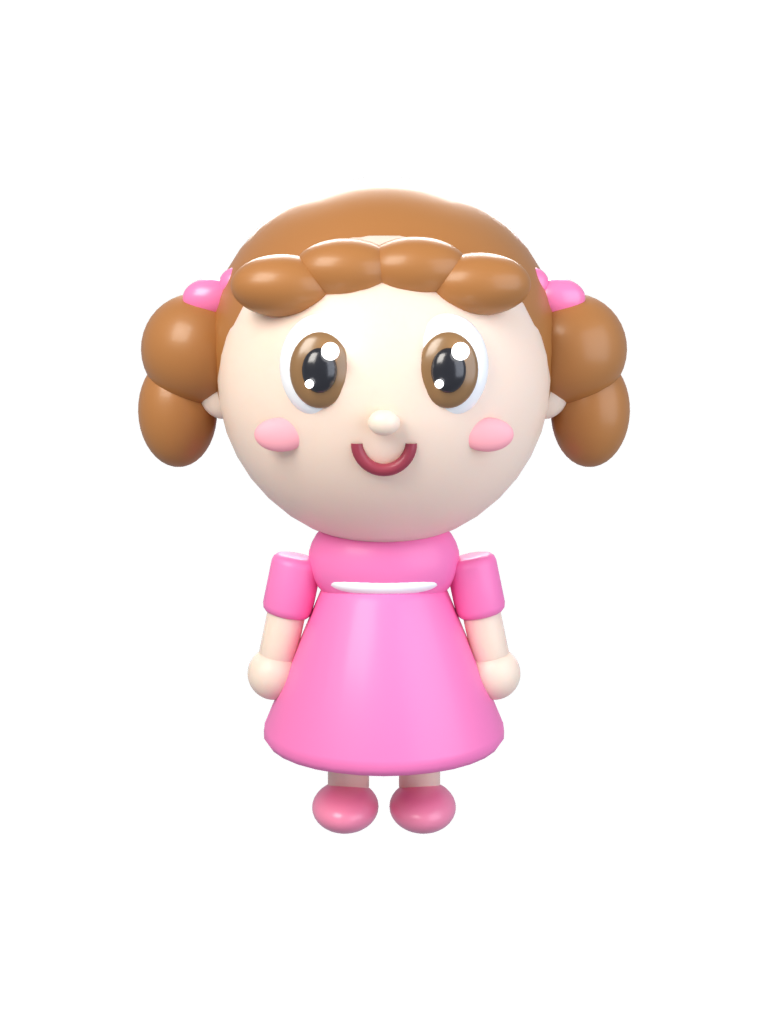
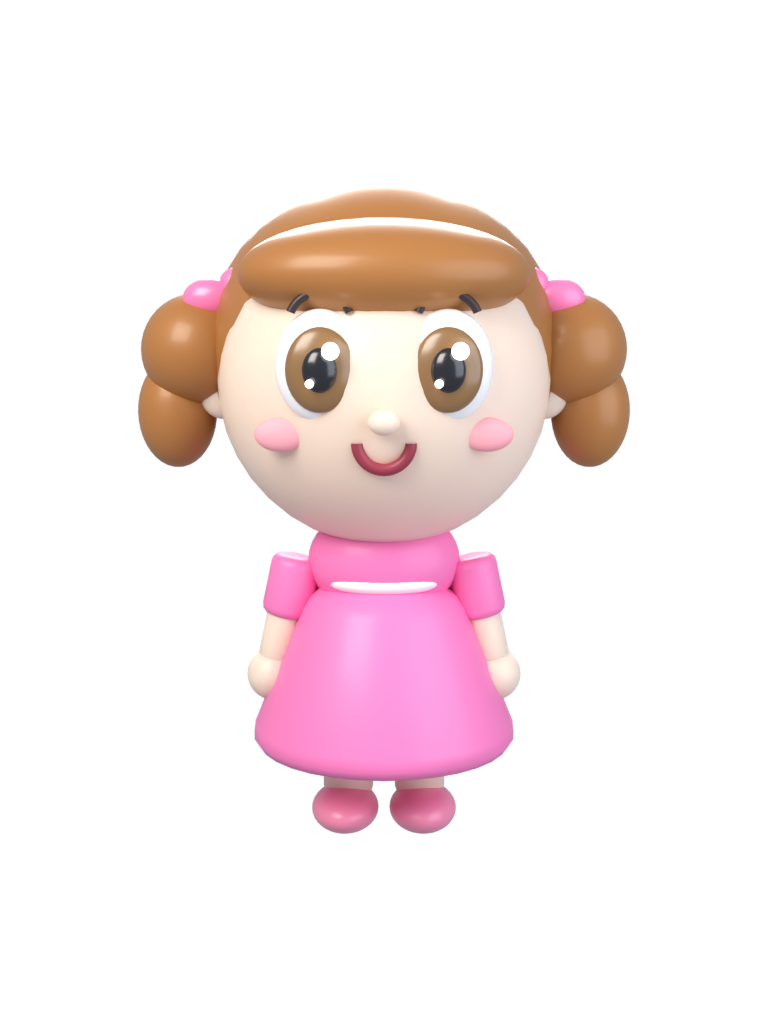
Personagens estilo desenho 3D infantil (sobrancelhas, olhos maiores, corpo gordinho)
Claude-Session: https://claude.ai/code/session_01GTWAZQL7LrSXrAygSQiDED

diff --git a/christian-kids-studio/scripts/build_assets.py b/christian-kids-studio/scripts/build_assets.py
@@ -187,13 +187,19 @@ def face(head, c, mouth, eyes="open", z=1.62, r=0.58, iris=(0.25, 0.14, 0.07)):
         ex, ez = sx * 0.2 * r / 0.58, z + 0.07 * r / 0.58
         ey = -r * 0.86
         if eyes == "open":
-            sphere((ex, ey, ez), (0.13 * r / .58, 0.07, 0.165 * r / .58), M_white, parent=head)
-            sphere((ex, ey - 0.045, ez - 0.01), (0.095 * r / .58, 0.04, 0.12 * r / .58), M_iris, parent=head)
+            sphere((ex, ey, ez), (0.145 * r / .58, 0.07, 0.18 * r / .58), M_white, parent=head)
+            sphere((ex, ey - 0.045, ez - 0.01), (0.11 * r / .58, 0.04, 0.135 * r / .58), M_iris, parent=head)
             sphere((ex, ey - 0.075, ez - 0.01), (0.055 * r / .58, 0.03, 0.07 * r / .58), M_pupil, parent=head)
             sphere((ex + 0.035, ey - 0.11, ez + 0.05), 0.028 * r / .58, M_hi, seg=16, parent=head)
             sphere((ex - 0.03, ey - 0.11, ez - 0.05), 0.014 * r / .58, M_hi, seg=12, parent=head)
         else:
             arc((ex, ey - 0.03, ez - 0.02), 0.09 * r / .58, 0.016, M_lash, parent=head)
+        bpy.ops.mesh.primitive_torus_add(major_radius=0.1 * r / .58, minor_radius=0.014, major_segments=32, minor_segments=8,
+                                         location=(ex, ey - 0.02, ez + 0.13 * r / .58), rotation=(math.radians(90), 0, 0))
+        br = bpy.context.object
+        bm_ = bmesh.new(); bm_.from_mesh(br.data)
+        bmesh.ops.delete(bm_, geom=[v for v in bm_.verts if v.co.y < 0.03], context="VERTS"); bm_.to_mesh(br.data); bm_.free()
+        br.data.materials.append(M_lash); smooth(br); setp(br, head)
     M_cheek = mat("cheek", (1.0, 0.45, 0.5), 0.6, 0.0)
     for sx in (-1, 1):
         sphere((sx * 0.33 * r / .58, -r * 0.8, z - 0.15 * r / .58), (0.085, 0.03, 0.055), M_cheek, parent=head)
@@ -201,7 +207,7 @@ def face(head, c, mouth, eyes="open", z=1.62, r=0.58, iris=(0.25, 0.14, 0.07)):
     M_t = mat("tongue", (1.0, 0.45, 0.5), 0.5, 0.3)
     mz = z - 0.2 * r / .58
     if mouth == "open":
-        sphere((0, -r * 0.92, mz - 0.02), (0.1 * r / .58, 0.045, 0.085 * r / .58), M_m, parent=head)
+        sphere((0, -r * 0.92, mz - 0.03), (0.12 * r / .58, 0.045, 0.1 * r / .58), M_m, parent=head)
         sphere((0, -r * 0.95, mz - 0.06), (0.06 * r / .58, 0.03, 0.035 * r / .58), M_t, parent=head)
     else:
         arc((0, -r * 0.93, mz + 0.03), 0.085 * r / .58, 0.02, M_m, parent=head)
@@ -240,7 +246,7 @@ def kid(kind, pose, mouth):
         hairc = mat("hairL", (0.45, 0.2, 0.06), 0.45, 0.3)
         shoe = mat("shoeL", (0.95, 0.3, 0.45), 0.4, 0.5)
         # vestido
-        cyl((0, 0, 0.62), 0.46, 0.62, top, r2=0.2, parent=root)
+        cyl((0, 0, 0.6), 0.5, 0.6, top, r2=0.26, parent=root)
         sphere((0, 0, 0.98), (0.27, 0.22, 0.2), top, parent=root)
         sphere((0, -0.1, 0.92), (0.2, 0.12, 0.05), mat("white", (1, 1, 1), 0.5), parent=root)  # golinha
     else:
@@ -248,11 +254,11 @@ def kid(kind, pose, mouth):
         shorts = mat("shorts", (1.0, 0.72, 0.1), 0.6, 0.1)
         hairc = mat("hairT", (0.1, 0.06, 0.04), 0.5, 0.3)
         shoe = mat("shoeT", (0.95, 0.3, 0.2), 0.4, 0.5)
-        sphere((0, 0, 0.86), (0.33, 0.27, 0.36), top, parent=root)
+        sphere((0, 0, 0.84), (0.38, 0.32, 0.4), top, parent=root)
         cyl((0, 0, 0.5), 0.29, 0.22, shorts, parent=root)
-        star_mesh((0, -0.27, 0.88), 0.11, mat("yellow", (1, 0.85, 0.15), 0.4, 0.4), depth=0.03, parent=root)
+        star_mesh((0, -0.335, 0.86), 0.11, mat("yellow", (1, 0.85, 0.15), 0.4, 0.4), depth=0.03, parent=root)
     for sx in (-1, 1):
-        cyl((sx * 0.13, 0, 0.28), 0.075, 0.34, skin, parent=root)
+        cyl((sx * 0.13, 0, 0.26), 0.09, 0.3, skin, parent=root)
         sphere((sx * 0.14, -0.06, 0.08), (0.12, 0.17, 0.08), shoe, parent=root)
     head = empty((0, 0, 1.62)); setp(head, root)
     sphere((0, 0, 1.62), 0.58, skin, parent=head)
@@ -261,8 +267,7 @@ def kid(kind, pose, mouth):
     sphere((0, -0.6, 1.52), (0.05, 0.04, 0.04), skin, parent=head)  # nariz
     if kind == "lulu":
         sphere((0, 0.14, 1.72), (0.63, 0.6, 0.6), hairc, parent=head)
-        for i, x in enumerate((-0.32, -0.12, 0.1, 0.3)):
-            sphere((x, -0.4, 2.02 - abs(x) * 0.25), (0.17, 0.12, 0.1), hairc, parent=head)
+        sphere((0, -0.3, 1.98), (0.48, 0.3, 0.18), hairc, parent=head)
         bow = mat("bow", (1.0, 0.25, 0.5), 0.35, 0.6)
         for sx in (-1, 1):
             sphere((sx * 0.66, 0.08, 1.72), 0.2, hairc, parent=head)
@@ -271,12 +276,9 @@ def kid(kind, pose, mouth):
             sphere((sx * 0.5, -0.02, 1.95), (0.07, 0.05, 0.06), bow, parent=head)
     else:
         sphere((0, 0.12, 1.74), (0.62, 0.6, 0.58), hairc, parent=head)
-        random.seed(3)
-        for i in range(14):
-            a = i / 14 * math.pi * 2
-            sphere((math.cos(a) * 0.42, 0.05 + math.sin(a) * 0.3, 2.08 + random.uniform(-0.04, 0.04)), 0.17, hairc, parent=head)
-        for x in (-0.3, -0.1, 0.12, 0.32):
-            sphere((x, -0.42, 2.0 - abs(x) * 0.2), (0.15, 0.11, 0.1), hairc, parent=head)
+        sphere((0, -0.05, 2.0), (0.5, 0.42, 0.22), hairc, parent=head)
+        sphere((0.02, -0.25, 2.2), (0.09, 0.07, 0.12), hairc, parent=head)
+        sphere((0.1, -0.28, 2.27), (0.07, 0.06, 0.08), hairc, parent=head)
     eyes = "closed" if pose == "pray" else "open"
     face(head, None, mouth, eyes=eyes, iris=(0.3, 0.17, 0.07) if kind == "lulu" else (0.12, 0.3, 0.12))
     (lx, lz), (rx, rz) = POSES[pose]
@@ -678,6 +680,6 @@ if __name__ == "__main__":
         reset(); _mats.clear()
         fn()
         if name.startswith("bg_"):
-            bpy.context.scene.cycles.samples = 16 if PREVIEW else 64
+            bpy.context.scene.cycles.samples = 16 if PREVIEW else 32
         render(name)
         print("  %.1fs" % (time.time() - t), flush=True)
